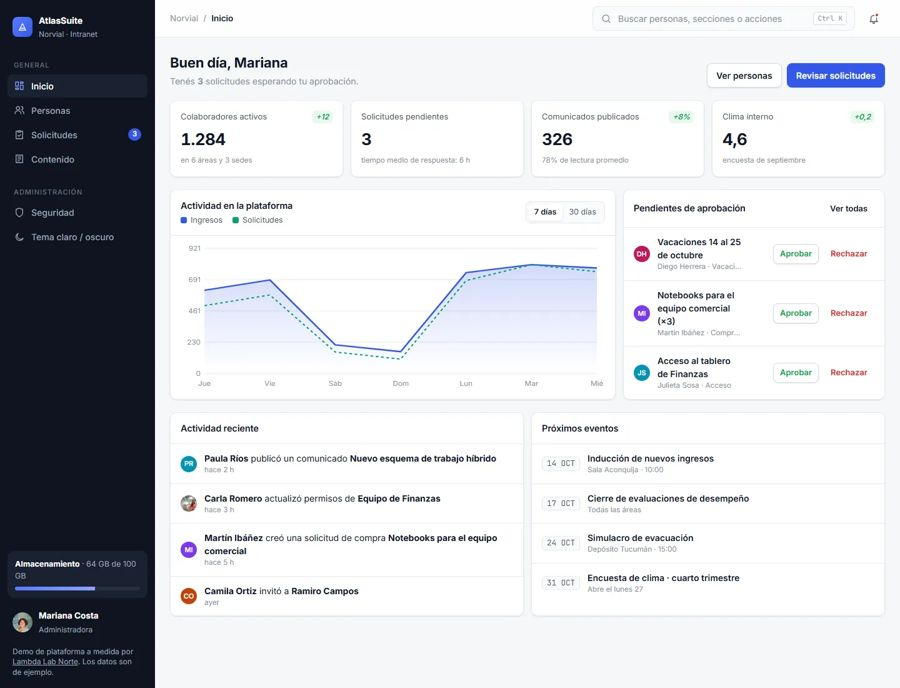
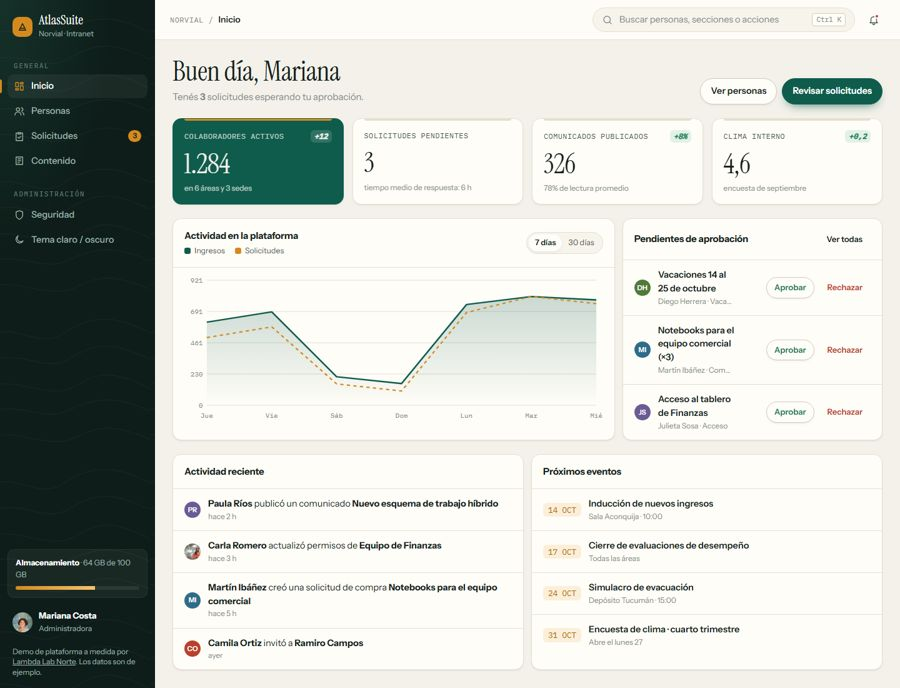
Perfil: capturas nuevas de Origo y AtlasSuite

diff --git a/README.md b/README.md
@@ -76,7 +76,7 @@ Sitios completos con marcas ficticias que cada cliente puede elegir como base pa
   </tr>
   <tr>
     <td width="50%" valign="top"><a href="https://www.lambdalab.com.ar/demos-web/preview-plataforma"><img src="img/demos/atlassuite.jpg" alt="AtlasSuite" width="100%"></a><br><b><a href="https://www.lambdalab.com.ar/demos-web/preview-plataforma">AtlasSuite</a></b><br><sub>Plataforma interna para empresas</sub></td>
-    <td width="50%" valign="top"><a href="https://www.lambdalab.com.ar/demos-web/sitio-institucional-blog"><img src="img/demos/origo.jpg" alt="Origo Editorial" width="100%"></a><br><b><a href="https://www.lambdalab.com.ar/demos-web/sitio-institucional-blog">Origo Editorial</a></b><br><sub>Profesionales que publican contenido</sub></td>
+    <td width="50%" valign="top"><a href="https://www.lambdalab.com.ar/demos-web/sitio-institucional-blog"><img src="img/demos/origo.jpg" alt="Origo Editorial" width="100%"></a><br><b><a href="https://www.lambdalab.com.ar/demos-web/sitio-institucional-blog">Origo</a></b><br><sub>Sitio editorial para profesionales que publican contenido</sub></td>
   </tr>
   <tr>
     <td width="50%" valign="top"><a href="https://www.lambdalab.com.ar/demos-web/portfolio-graphic-designer"><img src="img/demos/portfolio-creativo.jpg" alt="Portfolio creativo" width="100%"></a><br><b><a href="https://www.lambdalab.com.ar/demos-web/portfolio-graphic-designer">Portfolio creativo</a></b><br><sub>Diseñadores y estudios creativos</sub></td>
